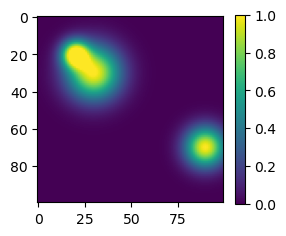
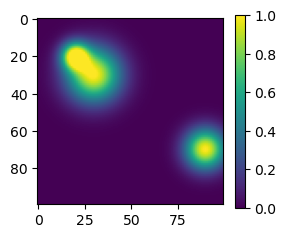
add setup cell

diff --git a/examples.py b/examples.py
@@ -1,3 +1,5 @@
+# %% Setup
+
 from PIL import Image
 import os.path as op
 import numpy as np
@@ -74,7 +76,7 @@ masks = [bubbles.build_mask(mu_y, mu_x, sigma, sh, scale=True, max_merge=False),
 
 for i in range(4):
     fig = plt.figure(figsize=(3, 2.5))
-    plt.imshow(masks[i])
+    plt.imshow(masks[i], interpolation=None)
     plt.colorbar()
     fig.savefig(op.join('examples', f'mask{i+1}.png'), dpi=100, bbox_inches='tight')
 
